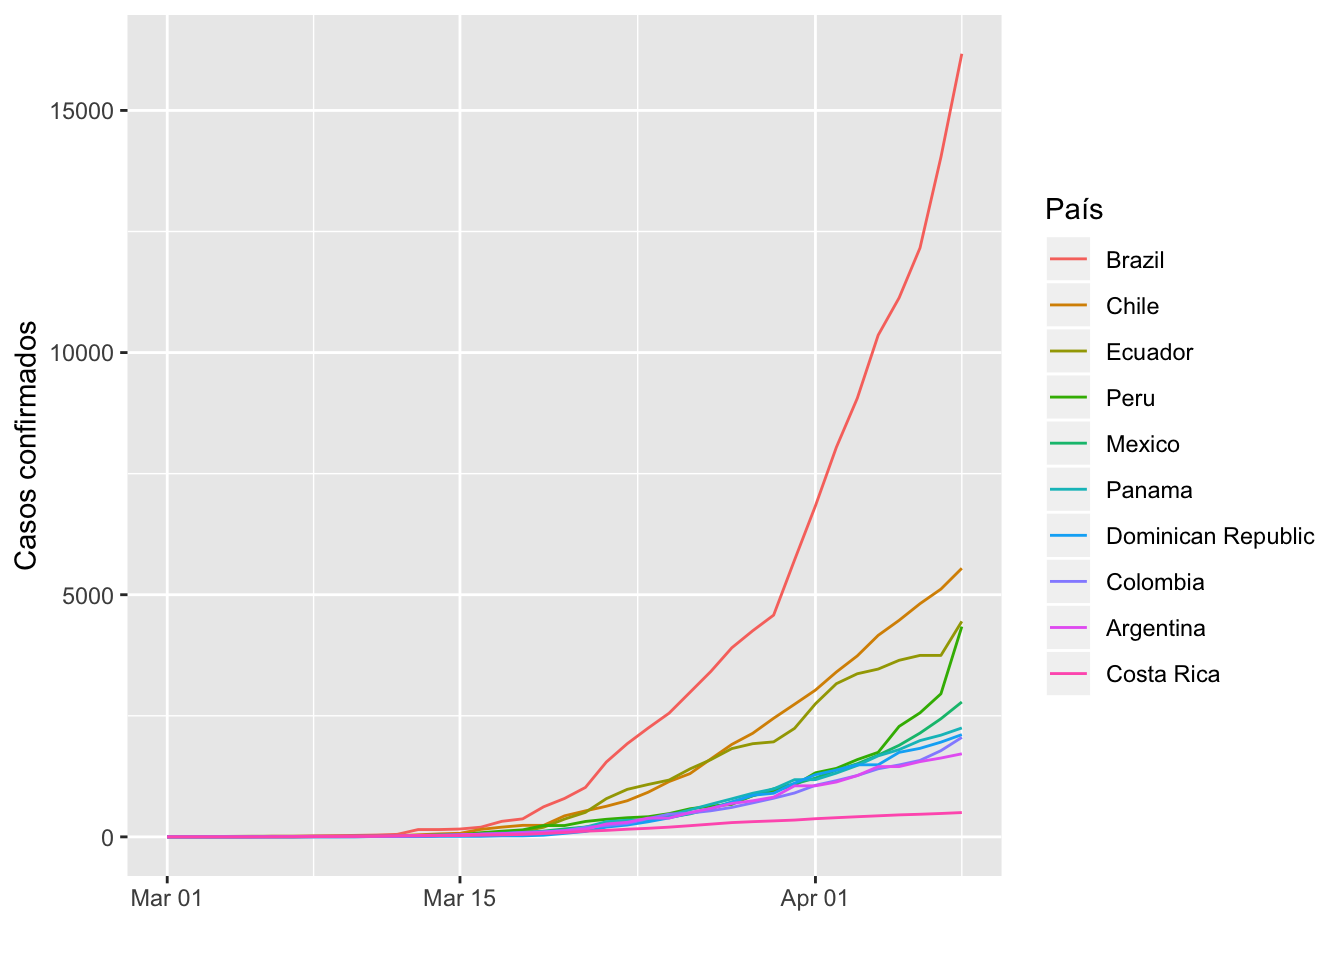
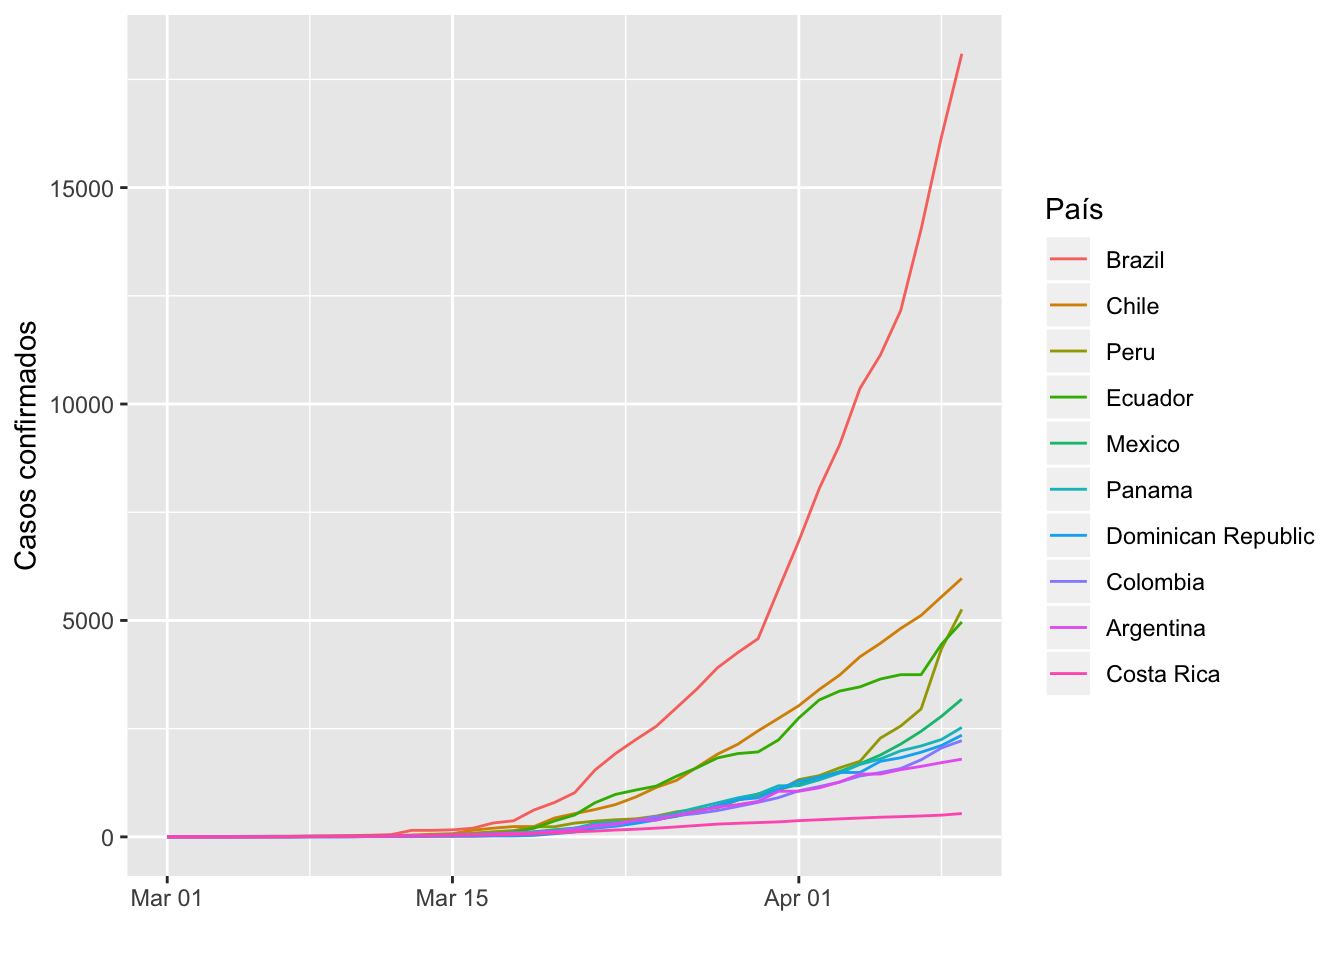
update

diff --git a/content/post/salud/2020-04-01-resumen-estadistico-sobre-el-coronavirus-en-ecuador-y-america-latina-marzo.html b/content/post/salud/2020-04-01-resumen-estadistico-sobre-el-coronavirus-en-ecuador-y-america-latina-marzo.html
@@ -25,20 +25,20 @@ images:
 <script src="/rmarkdown-libs/crosstalk/js/crosstalk.min.js"></script>
 
 
-<p>El 29 de febrero de 2020, el Ecuador se convirtió en el tercer país en América Latina en confirmar su primer caso de Covid-19. Brasil y México fueron los primeros. En tan solo un mes, el virus logró propagarese en todos los países de la región y hasta ayer, 2020-04-08, se contabilizaron 43826 casos confirmados, 1738 fallecidos y 4215 recuperados.</p>
+<p>El 29 de febrero de 2020, el Ecuador se convirtió en el tercer país en América Latina en confirmar su primer caso de Covid-19. Brasil y México fueron los primeros. En tan solo un mes, el virus logró propagarese en todos los países de la región y hasta ayer, 2020-04-09, se contabilizaron 49008 casos confirmados, 2005 fallecidos y 4883 recuperados.</p>
 <p><strong>NOTA:</strong> Todas las estadísticas están actualizadas al <strong>miércoles, 8 de abril de 2020</strong>. Los datos se actualizan automáticamente todos los día en la mañana con los datos del día anterior.</p>
 <p><strong>Tabla 1. Número de casos confirmados, fallecidos, y recuperados por país</strong></p>
 <div id="htmlwidget-1" style="width:100%;height:auto;" class="datatables html-widget"></div>
-<script type="application/json" data-for="htmlwidget-1">{"x":{"filter":"none","data":[["1","2","3","4","5","6","7","8","9","10","11","12","13","14","15","16","17","18","19","20"],["Brazil","Chile","Ecuador","Peru","Mexico","Panama","Dominican Republic","Colombia","Argentina","Costa Rica","Cuba","Uruguay","Honduras","Bolivia","Venezuela","Paraguay","El Salvador","Guatemala","Haiti","Nicaragua"],[16170,5546,4450,4342,2785,2249,2111,2054,1715,502,457,424,312,210,167,119,93,87,27,6],[819,48,242,121,141,59,108,54,63,3,12,7,22,15,9,5,5,3,1,1],[127,1115,140,1333,633,16,50,123,358,29,27,150,6,2,65,15,9,17,0,0]],"container":"<table class=\"display\">\n  <thead>\n    <tr>\n      <th> <\/th>\n      <th>País<\/th>\n      <th>Casos confirmados<\/th>\n      <th>Fallecidos<\/th>\n      <th>Recuperados<\/th>\n    <\/tr>\n  <\/thead>\n<\/table>","options":{"pageLength":5,"lengthMenu":[5,10,15,20],"columnDefs":[{"className":"dt-right","targets":[2,3,4]},{"orderable":false,"targets":0}],"order":[],"autoWidth":false,"orderClasses":false}},"evals":[],"jsHooks":[]}</script>
+<script type="application/json" data-for="htmlwidget-1">{"x":{"filter":"none","data":[["1","2","3","4","5","6","7","8","9","10","11","12","13","14","15","16","17","18","19","20"],["Brazil","Chile","Peru","Ecuador","Mexico","Panama","Dominican Republic","Colombia","Argentina","Costa Rica","Cuba","Uruguay","Honduras","Bolivia","Venezuela","Paraguay","El Salvador","Guatemala","Haiti","Nicaragua"],[18092,5972,5256,4965,3181,2528,2349,2223,1795,539,515,456,343,264,171,124,103,95,30,7],[950,57,138,272,174,63,118,69,72,3,15,7,23,18,9,5,6,3,2,1],[173,1274,1438,339,633,16,80,174,365,30,28,192,6,2,84,18,14,17,0,0]],"container":"<table class=\"display\">\n  <thead>\n    <tr>\n      <th> <\/th>\n      <th>País<\/th>\n      <th>Casos confirmados<\/th>\n      <th>Fallecidos<\/th>\n      <th>Recuperados<\/th>\n    <\/tr>\n  <\/thead>\n<\/table>","options":{"pageLength":5,"lengthMenu":[5,10,15,20],"columnDefs":[{"className":"dt-right","targets":[2,3,4]},{"orderable":false,"targets":0}],"order":[],"autoWidth":false,"orderClasses":false}},"evals":[],"jsHooks":[]}</script>
 <p>A pesar de las medidas que impuso el gobierno ecuatoriano a inicios de marzo, es difícil afirmar que estas has sido los suficientemente efectivas para desacelerar el crecimiento de casos confirmados y muertes por Covid-19. Otros países también han tomado medidas, pero aún así el virus ha logrado esparcirse en toda la región. Aquí te mostramos dos mapas.</p>
 <p><strong>Mapa 1. Evolución de número de casos confirmados en América Latina</strong> <img src="/post/salud/2020-04-01-resumen-estadistico-sobre-el-coronavirus-en-ecuador-y-america-latina-marzo_files/figure-html/unnamed-chunk-5.gif" width="672" /> Fuente: Center for Systems Science and Engineering (CSSE) de Johns Hopkins University</p>
 <p><strong>Mapa 2. Evolución de número de fallecidos en América Latina</strong> <img src="/post/salud/2020-04-01-resumen-estadistico-sobre-el-coronavirus-en-ecuador-y-america-latina-marzo_files/figure-html/unnamed-chunk-6.gif" width="672" /> Fuente: Center for Systems Science and Engineering (CSSE) de Johns Hopkins University</p>
 <p>El 14 de marzo, el vicepresidente Otto Sonnenholzner anunció el cierre de fronteras a partir del lunes 16 de marzo a las 13:59. Otros países también han tomado medidas similares. A mediados de marzo, Perú también cerró sus fronteras. Colombia lo hizo 23 de marzo. Sin embargo, a finales de marzo Brazil ya alcanza casi seis mil casos confirmados, Chile los tres mil y Ecuador ya supera los dos mil.</p>
 <p><strong>Gráfico 1. Evolución del número de casos confirmados por país en América Latina</strong></p>
 <p><img src="/post/salud/2020-04-01-resumen-estadistico-sobre-el-coronavirus-en-ecuador-y-america-latina-marzo_files/figure-html/unnamed-chunk-7-1.png" width="672" /> Fuente: Center for Systems Science and Engineering (CSSE) de Johns Hopkins University</p>
-<p>Panamá, Chile y Ecuador son los países con mayor número de casos confirmados por cada millón de habitantes. Así mismo, Panamá y República Dominicana y Ecuador cuentan con el mayor número de fallecidos por cada millón de habitantes. En Ecuador, por cada millón de habitantes, existen 260.5 casos confirmados y 14.2 fallecidos. Te ofrecemos más detalle en la siguiente tabla.</p>
+<p>Panamá, Chile y Ecuador son los países con mayor número de casos confirmados por cada millón de habitantes. Así mismo, Panamá y República Dominicana y Ecuador cuentan con el mayor número de fallecidos por cada millón de habitantes. En Ecuador, por cada millón de habitantes, existen 164.3 casos confirmados y 4.3 fallecidos. Te ofrecemos más detalle en la siguiente tabla.</p>
 <p><strong>Tabla 2. Número de casos confirmados y fallecidos por cada millón de habitantes</strong> <div id="htmlwidget-2" style="width:100%;height:auto;" class="datatables html-widget"></div>
-<script type="application/json" data-for="htmlwidget-2">{"x":{"filter":"none","data":[["1","2","3","4","5","6","7","8","9","10","11","12","13","14","15","16","17","18","19","20"],["Brazil","Chile","Ecuador","Peru","Mexico","Panama","Dominican Republic","Colombia","Argentina","Costa Rica","Cuba","Uruguay","Honduras","Bolivia","Venezuela","Paraguay","El Salvador","Guatemala","Haiti","Nicaragua"],[16170,5546,4450,4342,2785,2249,2111,2054,1715,502,457,424,312,210,167,119,93,87,27,6],[819,48,242,121,141,59,108,54,63,3,12,7,22,15,9,5,5,3,1,1],[77.2,296.1,260.5,135.7,22.1,538.4,198.6,41.4,38.5,100.4,40.3,122.9,32.5,18.5,5.8,17.1,14.5,5,2.4,0.9],[3.9,2.6,14.2,3.8,1.1,14.1,10.2,1.1,1.4,0.6,1.1,2,2.3,1.3,0.3,0.7,0.8,0.2,0.1,0.2]],"container":"<table class=\"display\">\n  <thead>\n    <tr>\n      <th> <\/th>\n      <th>País<\/th>\n      <th>Casos confirmados<\/th>\n      <th>Fallecidos<\/th>\n      <th>Casos por cada millón<\/th>\n      <th>Fallecidos por cada millón<\/th>\n    <\/tr>\n  <\/thead>\n<\/table>","options":{"pageLength":5,"lengthMenu":[5,10,15,20],"columnDefs":[{"className":"dt-right","targets":[2,3,4,5]},{"orderable":false,"targets":0}],"order":[],"autoWidth":false,"orderClasses":false}},"evals":[],"jsHooks":[]}</script> Fuente: Center for Systems Science and Engineering (CSSE) de Johns Hopkins University (datos del Covid-19) y Banco Mundial (datos poblacionales proyectados al 2018)</p>
+<script type="application/json" data-for="htmlwidget-2">{"x":{"filter":"none","data":[["1","2","3","4","5","6","7","8","9","10","11","12","13","14","15","16","17","18","19","20"],["Brazil","Chile","Peru","Ecuador","Mexico","Panama","Dominican Republic","Colombia","Argentina","Costa Rica","Cuba","Uruguay","Honduras","Bolivia","Venezuela","Paraguay","El Salvador","Guatemala","Haiti","Nicaragua"],[18092,5972,5256,4965,3181,2528,2349,2223,1795,539,515,456,343,264,171,124,103,95,30,7],[950,57,138,272,174,63,118,69,72,3,15,7,23,18,9,5,6,3,2,1],[86.4,318.9,164.3,290.6,25.2,605.2,221,44.8,40.3,107.8,45.4,132.2,35.8,23.3,5.9,17.8,16,5.5,2.7,1.1],[4.5,3,4.3,15.9,1.4,15.1,11.1,1.4,1.6,0.6,1.3,2,2.4,1.6,0.3,0.7,0.9,0.2,0.2,0.2]],"container":"<table class=\"display\">\n  <thead>\n    <tr>\n      <th> <\/th>\n      <th>País<\/th>\n      <th>Casos confirmados<\/th>\n      <th>Fallecidos<\/th>\n      <th>Casos por cada millón<\/th>\n      <th>Fallecidos por cada millón<\/th>\n    <\/tr>\n  <\/thead>\n<\/table>","options":{"pageLength":5,"lengthMenu":[5,10,15,20],"columnDefs":[{"className":"dt-right","targets":[2,3,4,5]},{"orderable":false,"targets":0}],"order":[],"autoWidth":false,"orderClasses":false}},"evals":[],"jsHooks":[]}</script> Fuente: Center for Systems Science and Engineering (CSSE) de Johns Hopkins University (datos del Covid-19) y Banco Mundial (datos poblacionales proyectados al 2018)</p>
 <div id="metodología" class="section level3">
 <h3>Metodología</h3>
 <p>Los análisis y mapas fueron creados usando lenguaje <code>R</code>. Para más detalle sobre la metodología empleada en este artículo y para reproducir el código utilizado, te invitamos a consultar este <a href="https://elquantificador.org/post/rmarkdown/resumen-estadistico-brote-coronavirus-ecuador-america-latina-rmarkdown">vínculo</a>. Si tienes duda sobre la metodología o el código, escríbeme a <a href="mailto:alonso@elquantificador.org">alonso@elquantificador.org</a>.</p>
